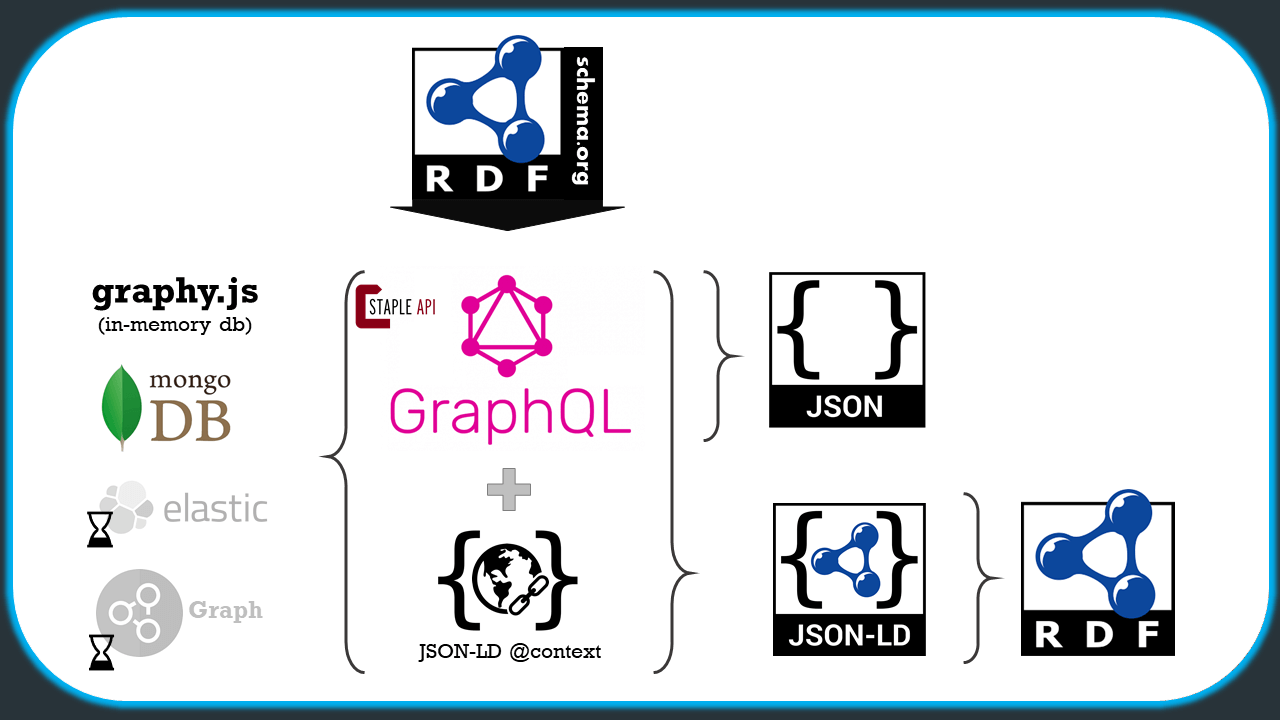
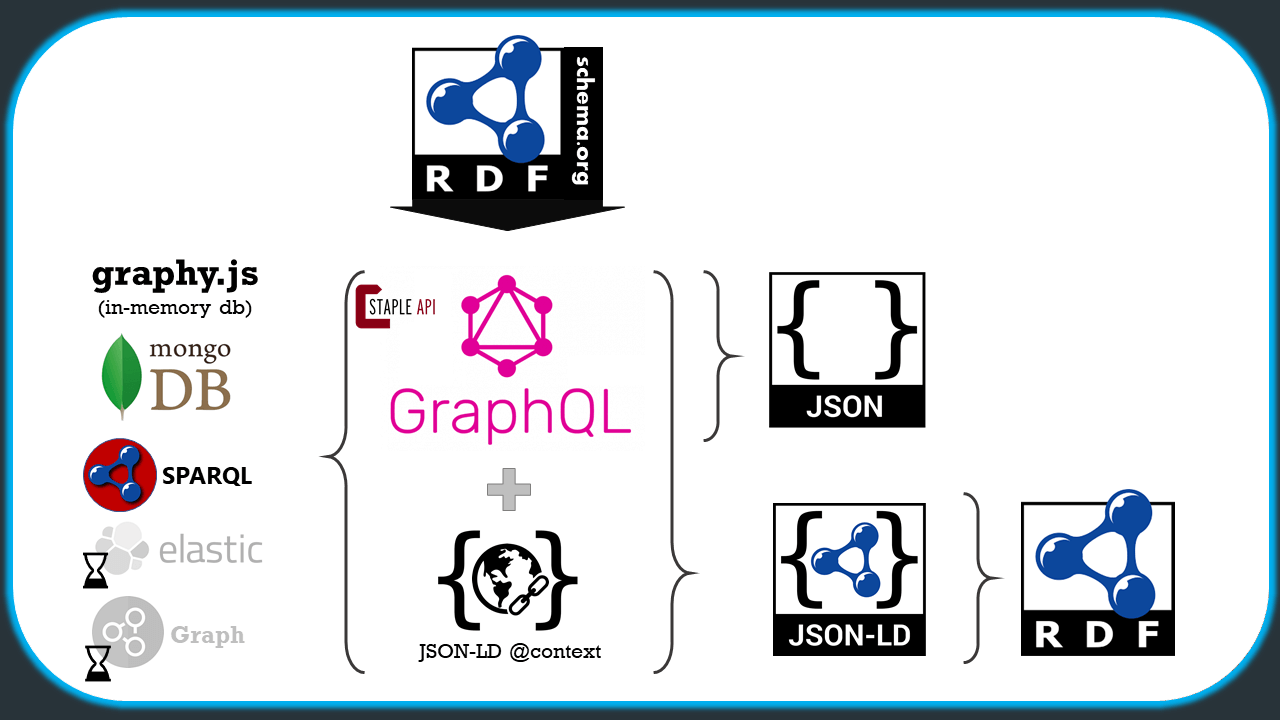
SPARQL endpoint added to docs

Changed region(s): [[0.0625, 0.3667, 0.2188, 0.9472]]

diff --git a/docs/README.md b/docs/README.md
@@ -1503,16 +1503,19 @@ let ontology = {
 
 ### Back-end configuration
 
-Currently two back-end storage connectors are supported (more to be added soon) (see [Getting started](/tutorial/?id=running-a-demo) for working examples):
+Currently the following back-end storage connectors are supported (more to be added soon) (see [Getting started](/tutorial/?id=running-a-demo) for working examples):
 
 1. [graphy.js](http://graphy.link)
 2. [MongoDB](https://www.mongodb.com/)
+3. [SPARQL endpoint](https://www.w3.org/TR/sparql11-protocol/)
 
 **graphy.js** is a lightweight in memory quad store (graph database for RDF). It is enabled by default and no additional configuration is required to initiate it. It is well-suitted for rapid testing and prototyping. Note that all data inserted to this storage during the runtime is lost on closing the service. 
 
 
 **MongoDB** is a popular JSON document store available as a stand-alone server or a cloud service ([MongoDB Atlas](https://www.mongodb.com/cloud/atlas)). In order to use Staple API on top of MongoDB a corresponding configuration needs to be passed when initiating the service.
 
+
+**SPARQL endpoint** is a standard query endpoint exposed by any RDF triple stores, which complies with the [W3C specification](https://www.w3.org/TR/sparql11-protocol/).
 
 <!-- tabs:start -->
 
@@ -1560,6 +1563,34 @@ where:
 * `127.0.0.1:27017` is the `IP:port` of the MongoDB endpoint
 * `dbName` is the name of the designated MongoDB database
 * `collectionName` is the name of the designated MongoDB collection
+
+#### **SPARQL**
+
+```javascript
+import staple-api
+
+let ontology = {
+  file: "./ontology.ttl"
+  }
+
+let config = {
+    type: "sparql",
+    url: "http://sparql-query-uri", 
+    updateUrl: "http://sparql-update-uri",
+    graphName: "http://graph-name"
+};
+
+async function StapleDemo() {
+    let stapleApi = await staple(ontology, config);
+}
+
+StapleDemo()
+```
+where:
+* `type: "sparql"` is a constant attribute for this connector
+* `http://sparql-query-uri` is the URL of the SPARQL query endpoint
+* `http://sparql-update-uri` is the URL of the SPARQL update query endpoint (usually the same as the one above, but not always)
+* `http://graph-name` (optional parameter) name of the target graph in the triple store
 
 <!-- tabs:end -->
 

diff --git a/tutorial/README.md b/tutorial/README.md
@@ -155,7 +155,7 @@ Run the demo:
 node demo.js
 ```
 
-### Run with MongoDB
+### Run over MongoDB
 
 [Install and run MongoDB](https://docs.mongodb.com/manual/installation/) locally as a standalone on the default port `27017`. Create a database `staple` and with a new collection `staple`.
 
@@ -181,6 +181,55 @@ let config = {
     url: "mongodb://127.0.0.1:27017", 
     dbName: "staple",
     collectionName: "staple",
+};
+
+async function StapleDemo() {
+    let stapleApi = await staple(ontology, config);
+
+    var app = express();
+    app.use('/graphql', graphqlHTTP({
+        schema: stapleApi.schema,
+        graphiql: true
+    }));
+    
+    app.listen(4000);
+    console.log('Running a GraphQL API server at localhost:4000/graphql');
+}
+
+StapleDemo()
+```
+
+Run the demo:
+```bash
+node demo.js
+```
+
+### Run over SPARQL
+
+Install and run a triple store locally, e.g., [Apache Jena Fuseki](https://jena.apache.org/documentation/fuseki2/) as a standalone server on the default port `3030`. Create a dataset `staple`.
+
+Install packages:
+
+```bash
+npm i staple-api express express-graphql
+```
+
+Create file `demo.js`:
+
+```javascript
+var express = require('express');
+var graphqlHTTP = require('express-graphql');
+const staple = require("staple-api");
+
+let ontology = {
+  file: "./ontology.ttl"
+  }
+
+let config = {
+    type: "sparql",
+    url: "http://localhost:3030/staple/sparql", 
+    updateUrl: "http://localhost:3030/staple/update",
+    graphName: "http://example.com/test"
 };
 
 async function StapleDemo() {

diff --git a/home/README.md b/home/README.md
@@ -33,7 +33,7 @@ While data in such storages constitutes pieces of the same knowledge graph, it i
 
 :heavy_check_mark: Basic type inheritance / inference supported.
 
-:heavy_check_mark: A connector to a MongoDB storage (other back-ends coming soon!).
+:heavy_check_mark: Connectors to MongoDB and SPARQL endpoints (other back-ends coming soon!).
 
 :heavy_check_mark: An in-memory graph database for rapid testing and prototyping.
 
